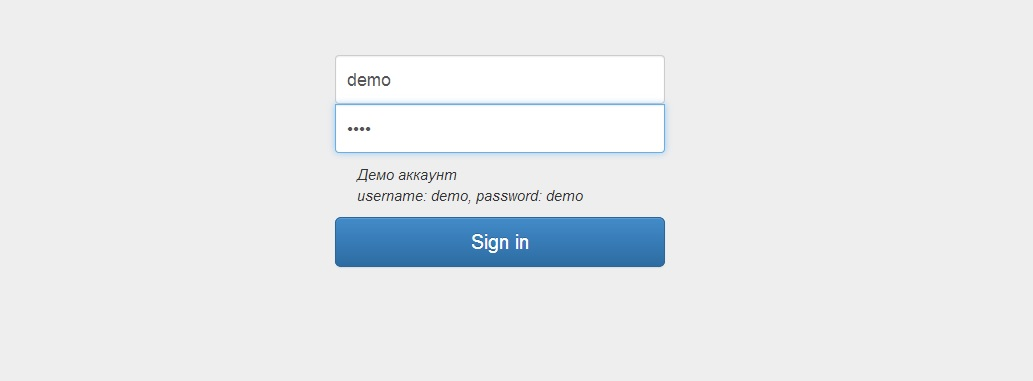
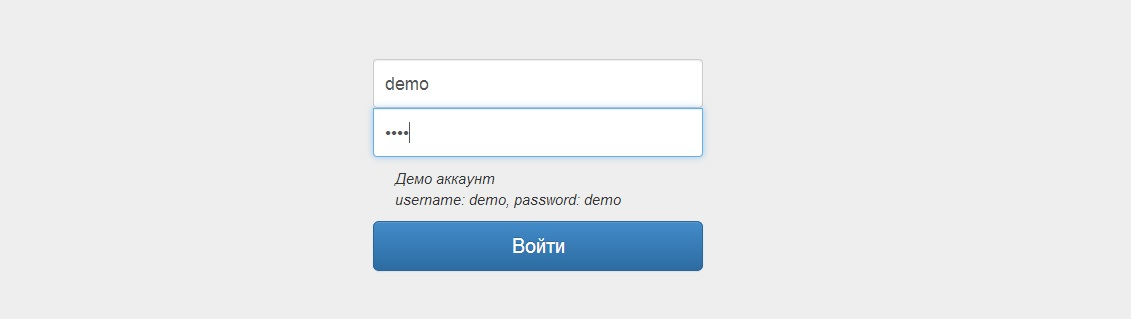
finishing improve

Changed region(s): [[0.3098, 0.1411, 0.6505, 0.8746]]

diff --git a/app/views/index.scala.html b/app/views/index.scala.html
@@ -56,12 +56,12 @@
         </div>
         <div class="col-md-6">
             <h2>&nbsp;</h2>
-            <blockquote>В процессе ведения любого бизнеса, возникает ряд задач, требующих немало времени и сил:
-                работа с прайсами поставщиков, размещени рекламы, обработка новых поступлений, выбор оптимальных цен,
+            <blockquote>В процессе ведения любого бизнеса, возникает ряд задач, требующих немалого количества времени и сил:
+                работа с прайсами поставщиков, размещение рекламы, обработка новых поступлений, выбор оптимальных цен,
                 анализ цен конкурентов и т.д. Множество из этих задач, требуют выполнения  рутинной работы.</br></br>
             Наша цель - разработка програмных средств, которые  помогут владельцам малого и среднего
-            бизнеса автоматизировать  большоую часть этой рутинной работы, и дадут возможность сосредоточиться
-            на том, где нужно работать “головой”, а не “руками”.</blockquote>
+            бизнеса автоматизировать  большую часть этой рутинной работы, и дадут возможность сосредоточиться
+            на других важных задачах.</blockquote>
 
         </div>
 
@@ -77,9 +77,9 @@
         <div class="col-sm-4">
             <h3>Web-сервисы</h3>
             <p><i class="fa fa-sitemap pull-left fa-4x"></i>Вебсервисы - это готовые инструменты, доступные через интернет с
-                любих устройств (компютер, планшет, смартфон). Благодяря им вы сможете автоматизировать ряд задач,
+                любих устройств (компютер, планшет, смартфон). Благодаря им, вы сможете автоматизировать ряд задач,
                 возникающих при обслуживании вашего интернет-магазина. Сервисы легко интегрируються с интернет-магазинами,
-                независимо от платформы или CMS. на котрой они реализованы.</br>
+                независимо от платформы или CMS. на которой они реализованы.</br>
                 <i class="fa fa-check"></i>&nbsp; <a href="/assets/pricelist-generator.html">Генератор прайс-листов</a>
                 </p>
         </div>
@@ -87,16 +87,17 @@
         <div class="col-sm-4">
             <h3>Программное обеспечение</h3>
             <p><i class="fa fa-laptop pull-left fa-4x"></i>
-            Мы можем создать веб-сервисы по вашему желанию, а также разрабоатать программы, которые помогаю решать
-            специфические задачи, возникшие в процессе ведения вашего бизнеса.</p>
+                Мы можем создать новые веб-сервисы или улучшить уже существующие под заказ.
+                Также мы разрабатываем программы, коротые решают специфические задачи ,
+                возникающие в процессе ведения Вашего бизнеса.</p>
         </div>
 
         <div class="col-sm-4">
             <h3>Техническая поддержка</h3>
-            <p><i class="fa fa-gears pull-left fa-4x"></i>Разработка простых и эффективных инструментов невозможна
-                без сотрудничества с теми, кто ими пользуеться. Будем благодарны, за идеи по улучшению приложений,
-                и за информацию о их некоррекной работе. Также мы раді поддерживать вас и решать текущие проблеми,
-                при использовании наших сервисов и программ.
+            <p><i class="fa fa-gears pull-left fa-4x"></i>Разработка простых и эффективных
+                инструментов невозможна без сотрудничества с теми, кто ими пользуеться.
+                Будем благодарны, за идеи, советы и пожелания, касательно улучшения сервисов.
+                Мы готовы всегда поддлерживать вас в процессе использования наших приложений.
                 </p>
         </div>
 
@@ -133,9 +134,9 @@
             </h3>
             <p>Java Developer c многолетним опытом разработки клиент-серверных приложений.</p>
             <ul class="list-unstyled list-inline list-social-icons">
-                <li class="tooltip-social linkedin-link"><a href="#linkedin-profile" data-toggle="tooltip" data-placement="top" title="LinkedIn"><i class="fa fa-linkedin-square fa-2x"></i></a>
+                <li class="tooltip-social linkedin-link"><a href="http://ua.linkedin.com/pub/oleg-oginskiy/89/774/2b2/en" target="_blank" data-toggle="tooltip" data-placement="top" title="LinkedIn"><i class="fa fa-linkedin-square fa-2x"></i></a>
                 </li>
-                <li class="tooltip-social google-plus-link"><a href="#google-plus-profile" data-toggle="tooltip" data-placement="top" title="Google+"><i class="fa fa-google-plus-square fa-2x"></i></a>
+                <li class="tooltip-social google-plus-link"><a href="https://plus.google.com/116969707835202736131/posts" data-toggle="tooltip" target="_blank" data-placement="top" title="Google+"><i class="fa fa-google-plus-square fa-2x"></i></a>
                 </li>
             </ul>
         </div>

diff --git a/public/pricelist-generator.html b/public/pricelist-generator.html
@@ -59,7 +59,7 @@
             <div class="jumbotron">
                 <h2 class="page-header">Генератор прайс-листов</h2>
                 <p class="text-justify"><i class="fa fa-list pull-left fa-3x"></i>
-                    Генрация прайс-листов - это частая операция, которую нужно выполнять при работе
+                    Генрация прайс-листов - это операция, которую нужно часто выполнять при работе
                     с партнерами и клиентами, или если вы хотите разместить информацию про ваши товары
                     на сайтах контекстной рекламы (Яндекс.Макрет, Hotline, Price, Prom). Мы предалагаем
                     вам быстрый и удобный инструмент, которы поможет легко сгенерировать прайс-лист для
@@ -69,12 +69,12 @@
         </div>
         <div class="col-md-6 column">
             <p  class="text-justify"><i class="fa fa-check"></i>&nbsp; Прайс-листы генерируються непосредственно из товаров, находящихся в базе данных вашего магазина.
-            Таким образом, не нужно никаких промежуточных прайсов или дополнительных модулей, а в прайсе всегда будет актуальная иформация о товарных позициях.</p>
+            Таким образом, не нужно никаких промежуточных прайсов или дополнительных модулей, плюс в прайсе всегда будет актуальная иформация о товарных позициях.</p>
         </div>
         <div class="col-md-6 column">
             <p  class="text-justify"><i class="fa fa-check"></i>&nbsp; Не нужно каждый раз составлять список товаров для прайса, достаточно один раз
-                выбрать товарные позици, которые вы хотите включить в прайс и указать его настройки, после этого вы сможете
-                получать прайс сколько  угодно лишь по нажатию одной кнопки. Также можно легко и быстро добавлять или исключать
+                выбрать товарные позици, которые вы хотите добавить в прайс и указать его настройки, после этого вы сможете
+                получать прайс-лист выбранных товаров сколько  угодно, лишь по нажатию одной кнопки. Также можно легко и быстро добавлять или исключать
                 товары из прайс-листа.</p>
         </div>
         <div class="col-md-6 column">
@@ -104,9 +104,13 @@
 
         <div class="col-md-12 column">
             <p>&nbsp;&nbsp;&nbsp;&nbsp;&nbsp;Для демонстрации того, как генерировать прайс-листы
-            при помощи веб-сервиса, мы будем исползовать демо аккаунт (чтобы получить собстевнный аккаунт и подключться к сервису , свяжитесь с нами).
-                Итак, чтобы перейти на страницу веб-сервиса для генерации прайсов, выберете Сервисы > Генератор прайс-листов в верхнем меню или нажмите кнопку "Перейти к генератору" вверху этой страницы. Перед тем как
-            попасть на страницу сервиса, вы увидите сраницу авторизации. </br> Введите<strong> логин и пароль для демо аккаунта: логин - demo, пароль - demo. </strong> </p>
+            при помощи веб-сервиса, мы будем использовать демо-аккаунт (чтобы получить собстевнный
+                аккаунт и подключться к сервису , <a href="/assets/contact.html">свяжитесь с нами </a>).
+                Итак, чтобы перейти на страницу веб-сервиса для генерации прайсов,
+                    выберете <em>Сервисы > Генератор прайс-листов </em> в верхнем меню или нажмите кнопку
+                    "Перейти к генератору" вверху этой страницы. Перед тем как
+            попасть на страницу сервиса, вы увидите сраницу авторизации. </br> Введите<strong> логин и пароль
+                        для демо аккаунта: логин - demo, пароль - demo. </strong> </p>
             <hr><p><img class="img-responsive img-customer" src="/assets/images/generator/login-form.jpg"></p><hr>
             <p> После успешной авторизации вы попадете на страницу веб-сервиса генератора прайс-листов.</p>
             <hr><p><img class="img-responsive img-customer" src="/assets/images/generator/page-of-generator.jpg"></p>

diff --git a/public/contact.html b/public/contact.html
@@ -64,7 +64,7 @@
         <div class="row">
             <div class="form-group col-lg-4">
                 <label for="input1">Ваше имя</label>
-                <input type="text" name="contact_name" class="form-control" id="input1" required>
+                <input type="text" name="contact_name" class="form-control" id="input1">
             </div>
             <div class="form-group col-lg-4">
                 <label for="input2">Email</label>
@@ -72,7 +72,7 @@
             </div>
             <div class="form-group col-lg-4">
                 <label for="input3">Контактный телефон</label>
-                <input type="phone" name="contact_phone" class="form-control" id="input3" required>
+                <input type="phone" name="contact_phone" class="form-control" id="input3">
             </div>
             <div class="clearfix"></div>
             <div class="form-group col-lg-12">
@@ -102,7 +102,7 @@
     <p><i class="fa fa-skype"></i>  jmen7070</p>
     <p><i class="fa fa-skype"></i>  o_inskiy</p>
     <!--<p><i class="fa fa-vk"></i> <a href="http://vk.com">http://vk.com/MService</a></p>-->
-    <p><i class="fa fa-envelope-o"></i> <a href="mailto:info@mservice.com">info@mservice.com</a></p>
+    <!--<p><i class="fa fa-envelope-o"></i> <a href="mailto:info@mservice.com">info@mservice.com</a></p>-->
     <!-- <ul class="list-unstyled list-inline list-social-icons">
         <li class="tooltip-social facebook-link"><a href="#facebook-page" data-toggle="tooltip" data-placement="top" title="Facebook"><i class="fa fa-facebook-square fa-2x"></i></a></li>
         <li class="tooltip-social twitter-link"><a href="#twitter-profile" data-toggle="tooltip" data-placement="top" title="Twitter"><i class="fa fa-twitter-square fa-2x"></i></a></li>

diff --git a/public/login.html b/public/login.html
@@ -33,7 +33,7 @@
         <label class="checkbox">
              <em>Демо аккаунт <br> username: demo, password: demo </em>
         </label>
-        <button class="btn btn-lg btn-primary btn-block" type="submit">Sign in</button>
+        <button class="btn btn-lg btn-primary btn-block" type="submit">Войти</button>
     </form>
 
 </div>
